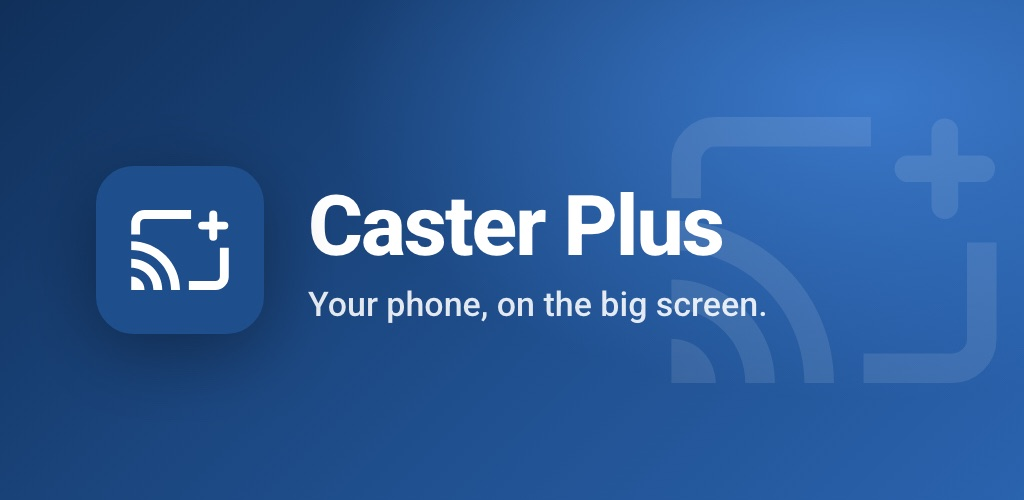
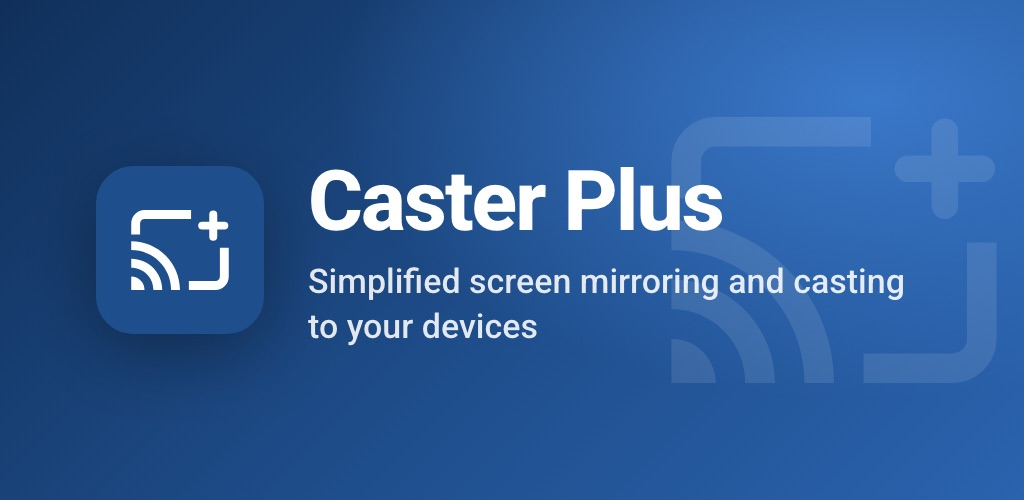
build: update website assets

Changed region(s): [[0.2812, 0.33, 0.9062, 0.69]]

diff --git a/out/privacy/index.html b/out/privacy/index.html
@@ -16,7 +16,7 @@
   <meta property="og:image" content="https://casterplus.com/assets/img/og-image.jpg">
   <meta property="og:image:width" content="1024">
   <meta property="og:image:height" content="500">
-  <meta property="og:image:alt" content="Caster Plus. Your phone, on the big screen.">
+  <meta property="og:image:alt" content="Caster Plus. Simplified screen mirroring and casting to your devices.">
   <meta name="twitter:card" content="summary_large_image">
   <link rel="icon" href="../assets/img/favicon-32.png" sizes="32x32" type="image/png">
   <link rel="icon" href="../favicon.svg" type="image/svg+xml">
@@ -111,12 +111,12 @@
 
         <h2 id="information-stored">2. Information stored on your phone</h2>
 
-        <p>The App stores the pairing keys for TVs you have paired with (so you enter a TV’s code only once), your settings, and any TVs you added by address. This information is kept in the App’s private storage, is excluded from device backups, and is deleted when you uninstall the App. The App keeps no usage logs. Android’s system log on your phone may contain technical error messages; these leave your phone only if you send us a bug report.</p>
+        <p>The App stores the pairing keys for TVs you have paired with (so you enter a TV’s code only once), your settings, and any TVs you added by address. This information is kept in the App’s private storage, is excluded from device backups, and is deleted when you uninstall the App. The App keeps no usage logs. Android’s system log on your phone may contain technical error messages from the App; these leave your phone only if you send them to us with Email support.</p>
 
         <h2 id="information-we-receive">3. Information we receive</h2>
 
         <ul>
-          <li><strong>Support emails.</strong> If you email us, we receive your email address and the contents of your message. We use them only to respond to you, which is our legitimate interest in handling your request, and we delete them 12 months after your last message, or sooner if you ask.</li>
+          <li><strong>Support emails.</strong> If you email us, we receive your email address and the contents of your message. We use them only to respond to you, which is our legitimate interest in handling your request, and we delete them 12 months after your last message, or sooner if you ask. If you use Email support in the App, the draft includes the error, your phone’s model and Android version, the App’s version, and a diagnostic log from the App. The log can contain your TVs’ names and network addresses and the titles of videos you sent. You can remove it from the draft, and nothing is sent unless you send the email.</li>
           <li><strong>Purchase records.</strong> When you buy the App, Google Play provides us with an order number, the date and price, and the buyer’s general location (country, and sometimes state, city or postal code). We do not receive your payment card details. We keep these records for as long as tax and accounting laws require.</li>
         </ul>
 
@@ -173,7 +173,7 @@
             <svg viewBox="18 18 72 72" aria-hidden="true" focusable="false"><rect x="18" y="18" width="72" height="72" rx="16" fill="#1F4E8C"/><g transform="translate(31.2 31.2) scale(1.9)" fill="none" stroke="#fff" stroke-linejoin="round"><path d="M2,8.5V6A2,2 0,0 1,4,4H14.5" stroke-width="2"/><path d="M22,11.5V18A2,2 0,0 1,20,20H14" stroke-width="2"/><path d="M19.5,4V9M17,6.5H22" stroke-width="1.8" stroke-linecap="round"/><path fill="#fff" stroke="none" d="M1,18v3h3C4,19.34 2.66,18 1,18zM1,14v2c2.76,0 5,2.24 5,5h2C8,17.13 4.87,14 1,14zM1,10v2c4.97,0 9,4.03 9,9h2C12,14.92 7.07,10 1,10z"/></g></svg>
             <span>Caster Plus</span>
           </a>
-          <p class="tagline">Your phone, on the big screen. Made by <a href="https://joza.solutions">Joza Solutions</a>.</p>
+          <p class="tagline">Simplified screen mirroring and casting to your devices. Made by <a href="https://joza.solutions">Joza Solutions</a>.</p>
         </div>
         <nav class="footer-nav" aria-label="Footer">
           <ul>

diff --git a/out/help/index.html b/out/help/index.html
@@ -16,7 +16,7 @@
   <meta property="og:image" content="https://casterplus.com/assets/img/og-image.jpg">
   <meta property="og:image:width" content="1024">
   <meta property="og:image:height" content="500">
-  <meta property="og:image:alt" content="Caster Plus. Your phone, on the big screen.">
+  <meta property="og:image:alt" content="Caster Plus. Simplified screen mirroring and casting to your devices.">
   <meta name="twitter:card" content="summary_large_image">
   <link rel="icon" href="../assets/img/favicon-32.png" sizes="32x32" type="image/png">
   <link rel="icon" href="../favicon.svg" type="image/svg+xml">
@@ -329,7 +329,7 @@
             <svg viewBox="18 18 72 72" aria-hidden="true" focusable="false"><rect x="18" y="18" width="72" height="72" rx="16" fill="#1F4E8C"/><g transform="translate(31.2 31.2) scale(1.9)" fill="none" stroke="#fff" stroke-linejoin="round"><path d="M2,8.5V6A2,2 0,0 1,4,4H14.5" stroke-width="2"/><path d="M22,11.5V18A2,2 0,0 1,20,20H14" stroke-width="2"/><path d="M19.5,4V9M17,6.5H22" stroke-width="1.8" stroke-linecap="round"/><path fill="#fff" stroke="none" d="M1,18v3h3C4,19.34 2.66,18 1,18zM1,14v2c2.76,0 5,2.24 5,5h2C8,17.13 4.87,14 1,14zM1,10v2c4.97,0 9,4.03 9,9h2C12,14.92 7.07,10 1,10z"/></g></svg>
             <span>Caster Plus</span>
           </a>
-          <p class="tagline">Your phone, on the big screen. Made by <a href="https://joza.solutions">Joza Solutions</a>.</p>
+          <p class="tagline">Simplified screen mirroring and casting to your devices. Made by <a href="https://joza.solutions">Joza Solutions</a>.</p>
         </div>
         <nav class="footer-nav" aria-label="Footer">
           <ul>

diff --git a/out/index.html b/out/index.html
@@ -16,7 +16,7 @@
   <meta property="og:image" content="https://casterplus.com/assets/img/og-image.jpg">
   <meta property="og:image:width" content="1024">
   <meta property="og:image:height" content="500">
-  <meta property="og:image:alt" content="Caster Plus. Your phone, on the big screen.">
+  <meta property="og:image:alt" content="Caster Plus. Simplified screen mirroring and casting to your devices.">
   <meta name="twitter:card" content="summary_large_image">
   <link rel="icon" href="assets/img/favicon-32.png" sizes="32x32" type="image/png">
   <link rel="icon" href="favicon.svg" type="image/svg+xml">
@@ -352,7 +352,7 @@
             <svg viewBox="18 18 72 72" aria-hidden="true" focusable="false"><rect x="18" y="18" width="72" height="72" rx="16" fill="#1F4E8C"/><g transform="translate(31.2 31.2) scale(1.9)" fill="none" stroke="#fff" stroke-linejoin="round"><path d="M2,8.5V6A2,2 0,0 1,4,4H14.5" stroke-width="2"/><path d="M22,11.5V18A2,2 0,0 1,20,20H14" stroke-width="2"/><path d="M19.5,4V9M17,6.5H22" stroke-width="1.8" stroke-linecap="round"/><path fill="#fff" stroke="none" d="M1,18v3h3C4,19.34 2.66,18 1,18zM1,14v2c2.76,0 5,2.24 5,5h2C8,17.13 4.87,14 1,14zM1,10v2c4.97,0 9,4.03 9,9h2C12,14.92 7.07,10 1,10z"/></g></svg>
             <span>Caster Plus</span>
           </a>
-          <p class="tagline">Your phone, on the big screen. Made by <a href="https://joza.solutions">Joza Solutions</a>.</p>
+          <p class="tagline">Simplified screen mirroring and casting to your devices. Made by <a href="https://joza.solutions">Joza Solutions</a>.</p>
         </div>
         <nav class="footer-nav" aria-label="Footer">
           <ul>

diff --git a/out/404.html b/out/404.html
@@ -62,7 +62,7 @@
             <svg viewBox="18 18 72 72" aria-hidden="true" focusable="false"><rect x="18" y="18" width="72" height="72" rx="16" fill="#1F4E8C"/><g transform="translate(31.2 31.2) scale(1.9)" fill="none" stroke="#fff" stroke-linejoin="round"><path d="M2,8.5V6A2,2 0,0 1,4,4H14.5" stroke-width="2"/><path d="M22,11.5V18A2,2 0,0 1,20,20H14" stroke-width="2"/><path d="M19.5,4V9M17,6.5H22" stroke-width="1.8" stroke-linecap="round"/><path fill="#fff" stroke="none" d="M1,18v3h3C4,19.34 2.66,18 1,18zM1,14v2c2.76,0 5,2.24 5,5h2C8,17.13 4.87,14 1,14zM1,10v2c4.97,0 9,4.03 9,9h2C12,14.92 7.07,10 1,10z"/></g></svg>
             <span>Caster Plus</span>
           </a>
-          <p class="tagline">Your phone, on the big screen. Made by <a href="https://joza.solutions">Joza Solutions</a>.</p>
+          <p class="tagline">Simplified screen mirroring and casting to your devices. Made by <a href="https://joza.solutions">Joza Solutions</a>.</p>
         </div>
         <nav class="footer-nav" aria-label="Footer">
           <ul>
